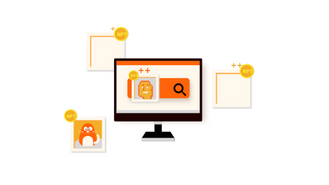
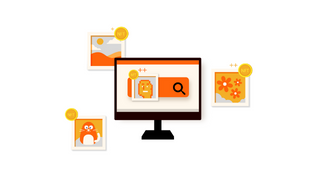
update 9

Changed region(s): [[0.2736, 0.1351, 0.7903, 0.6486], [0.1824, 0.5676, 0.6079, 0.8378], [0.4255, 0.7027, 0.5471, 0.7838]]

diff --git a/club.html b/club.html
@@ -111,7 +111,7 @@
 
                  <div class="col-lg-4 col-md-4 p-3">
                     <div id="clubCard">
-                        <img src="https://bluelearnprod.s3.ap-south-1.amazonaws.com/Clubs/entrepreneurship.jpg" alt="TheHouseOfHEartist- Sketching Club" srcset="">
+                        <img src="images/SKETCHING CLUB.png" alt="TheHouseOfHEartist- Sketching Club" srcset="">
                         <div class="content">
                           <h6>Sketching Club</h6>
                           <p>Consider sketching as a hobby or passion? Join us at the Sketching Club to appreciate the serenity of sketching and cherish the art within you.
@@ -190,7 +190,7 @@
 
                  <div class="col-lg-4 col-md-4 p-3">
                     <div id="clubCard">
-                        <img src="https://bluelearnprod.s3.ap-south-1.amazonaws.com/Clubs/entrepreneurship.jpg" alt="TheHouseOfHEartist- Traditional Art Club" srcset="">
+                        <img src="images/Traditional Club.png" alt="TheHouseOfHEartist- Traditional Art Club" srcset="">
                         <div class="content">
                           <h6>Traditional Art Club</h6>
                           <p>The art passed down through generations has now been waiting for you to master its authenticity , at the Traditional Art Club
@@ -222,7 +222,7 @@
 
                  <div class="col-lg-4 col-md-4 p-3">
                   <div id="clubCard">
-                      <img src="https://bluelearnprod.s3.ap-south-1.amazonaws.com/Clubs/entrepreneurship.jpg" alt="TheHouseOfHEartist- Har Painting Studio Club" srcset="">
+                      <img src="images/Har Painting Studio CLUB.png" alt="TheHouseOfHEartist- Har Painting Studio Club" srcset="">
                       <div class="content">
                         <h6>Har Painting Studio Club</h6>
                         <p>Learn the basics of building a startup, pitch your ideas to investors, brainstorm with like-minded

diff --git a/index.html b/index.html
@@ -152,7 +152,7 @@
       <div class="swiper-slide">
         <li class="swiper-slides " style="width: 257.4px; margin-right: 25px;">
           <div id="clubCard">
-            <img src="https://bluelearnprod.s3.ap-south-1.amazonaws.com/Clubs/entrepreneurship.jpg" alt="TheHouseOfHEartist- Sketching Club" srcset="">
+            <img src="images/SKETCHING CLUB.png" alt="TheHouseOfHEartist- Sketching Club" srcset="">
             <div class="content">
               <h6>Sketching Club</h6>
               <p>Consider sketching as a hobby or passion? Join us at the Sketching Club to appreciate the serenity of sketching and cherish the art within you.</p>
@@ -232,7 +232,7 @@
       <div class="swiper-slide">
         <li class="swiper-slides " style="width: 257.4px; margin-right: 25px;">
           <div id="clubCard">
-            <img src="https://bluelearnprod.s3.ap-south-1.amazonaws.com/Clubs/entrepreneurship.jpg" alt="TheHouseOfHEartist- Traditional Art Club" srcset="">
+            <img src="images/Traditional Club.png" alt="TheHouseOfHEartist- Traditional Art Club" srcset="">
             <div class="content">
               <h6>Traditional Art Club</h6>
               <p>The art passed down through generations has now been waiting for you to master its authenticity , at the Traditional Art Club</p>
@@ -265,7 +265,7 @@
       <div class="swiper-slide">
         <li class="swiper-slides " style="width: 257.4px; margin-right: 25px;">
           <div id="clubCard">
-            <img src="https://bluelearnprod.s3.ap-south-1.amazonaws.com/Clubs/entrepreneurship.jpg" alt="TheHouseOfHEartist- Har Painting Studio Club" srcset="">
+            <img src="images/Har Painting Studio CLUB.png" alt="TheHouseOfHEartist- Har Painting Studio Club" srcset="">
             <div class="content">
               <h6>Har Painting Studio Club</h6>
               <p>Learn the basics of building a startup, pitch your ideas to investors, brainstorm with like-minded

diff --git a/NFTArtClub.html b/NFTArtClub.html
@@ -73,7 +73,8 @@
                     NFT Art Club
                 </h1>
                 <p class="header2-text pt-3">
-                    Join niche clubs, interact with experts, explore, network with high-profile and ambitious individuals, get internships, and join India’s largest community all for free! What are you waiting for?
+                  An NFT (non-fungible token) is an asset that exists in the digital universe that is solely owned by you. Join the NFT Art Club to learn how you can own your art on digital platforms to avoid copyright infringements by others.
+
                 </p>
                 <div class="explore-btn pt-4">
                     <a href="#aboutnft">
@@ -88,7 +89,7 @@
               <div class="part2">
                   <div class="container p-5">
                 <div style="width: 100%; height: 100%;">
-                  <video class="headvideo" src="https://res.cloudinary.com/dait24tgm/video/upload/v1641911235/NFT_CLUB_igsthp.mp4" preload="auto" autoplay controls style="width: 100%; height: 100%;"></video>
+                  <video class="headvideo" src="https://res.cloudinary.com/dait24tgm/video/upload/v1642005059/NFT_CLUB_ol2mup.mp4" preload="auto" autoplay controls style="width: 100%; height: 100%;"></video>
                 </div>
               </div>
             </div>

diff --git a/TraditionalArtClub.html b/TraditionalArtClub.html
@@ -73,7 +73,8 @@
                     Traditional Art Club
                 </h1>
                 <p class="header2-text pt-3">
-                  The art passed down through generations has now been waiting for you to master its authenticity , at the Traditional Art Club
+                  It is important to retain the traditions of our ancestors. Traditional art provides a shared experience for the entire community. Join this club to explore and master the values and beliefs passed down through generations in the form of art.
+
 
                 </p>
                 <div class="explore-btn pt-4">
@@ -89,7 +90,7 @@
               <div class="part2">
                   <div class="container p-5">
                 <div style="width: 100%; height: 100%;">
-                  <video class="headvideo" src="images/community-intro.mp4" preload="auto" autoplay controls style="width: 100%; height: 100%;"></video>
+                  <video class="headvideo" src="https://res.cloudinary.com/dait24tgm/video/upload/v1642005055/Traditional_Club_pxuacd.mp4" preload="auto" autoplay controls style="width: 100%; height: 100%;"></video>
                 </div>
               </div>
             </div>

diff --git a/SketchingClub.html b/SketchingClub.html
@@ -72,7 +72,8 @@
                     Sketching Club
                 </h1>
                 <p class="header2-text pt-3">
-                  Consider sketching as a hobby or passion? Join us at the Sketching Club to appreciate the serenity of sketching and cherish the art within you.
+                  Sketching helps people develop their ability to focus and pay attention. Join our club to engage with like-minded people with whom you can interact and gain feedback from.
+
 
                 </p>
                 <div class="explore-btn pt-4">
@@ -88,7 +89,7 @@
               <div class="part2">
                   <div class="container p-5">
                 <div style="width: 100%; height: 100%;">
-                  <video class="headvideo" src="images/community-intro.mp4" preload="auto" autoplay controls style="width: 100%; height: 100%;"></video>
+                  <video class="headvideo" src="https://res.cloudinary.com/dait24tgm/video/upload/v1642005053/SKETCHING_CLUB_hnkrox.mp4" preload="auto" autoplay controls style="width: 100%; height: 100%;"></video>
                 </div>
               </div>
             </div>

diff --git a/HarPaintingStudio.html b/HarPaintingStudio.html
@@ -73,7 +73,7 @@
                     Har Painting Studio Club
                 </h1>
                 <p class="header2-text pt-3">
-                    Join niche clubs, interact with experts, explore, network with high-profile and ambitious individuals, get internships, and join India’s largest community all for free! What are you waiting for?
+                  Creativity does not always ensure a stable income. Join the Har Painting Studio Club to learn how to effectively monetize your artwork along with fellow artists.
                 </p>
                 <div class="explore-btn pt-4">
                     <a href="#aboutStudio">

diff --git a/DigtalArtClub.html b/DigtalArtClub.html
@@ -73,7 +73,8 @@
                     Digital Art Club
                 </h1>
                 <p class="header2-text pt-3">
-                  Digital art offers a whole new perspective to the way people see art. Come join us at the digital art club to experiment as well as to surpass your creativity.
+                  Technology is best when it brings people together. The advancements in digital technology allow artists to create a piece that can be seen and appreciated all around the world. Join our digital art club to learn how to explore this new form of art.
+
 
                 </p>
                 <div class="explore-btn pt-4">

diff --git a/ColoringClub.html b/ColoringClub.html
@@ -72,7 +72,8 @@
                     Coloring Club
                 </h1>
                 <p class="header2-text pt-3">
-                  Colours have been an inseparable part of human existence and enlivens the environment. We, here provide you with the opportunity to enjoy the divine aura of colours!
+                  Colors have been an inseparable part of human existence which enliven the environment. They also hold a certain significance for people around the world. Join the Coloring club to learn how to influence and portray emotions through colors.
+
 
                 </p>
                 <div class="explore-btn pt-4">

diff --git a/MandalaArtClub.html b/MandalaArtClub.html
@@ -73,7 +73,8 @@
                     Mandala Art Club
                 </h1>
                 <p class="header2-text pt-3">
-                  Mandala represents cosmos or deities of various cultures. Come join us at the Mandala Club to experience the heavenly world at your own fingertips!
+                  A mandala is said to be a symbolic picture of the universe. It helps transform ordinary minds into enlightened ones and to assist with healing. Join us at the Mandala Art Club to learn to draw a range of traditional patterns of different cultures.
+
 
                 </p>
                 <div class="explore-btn pt-4">

diff --git a/paintingclub.html b/paintingclub.html
@@ -72,7 +72,7 @@
                     Painting Club
                 </h1>
                 <p class="header2-text pt-3">
-                  Painting is a two dimensional language which lets the creators to express their ideas and emotions. Join us at the painting club to express yourself in this language!
+                  Painting is said to sharpen the mind through conceptual visualization and implementation as well as boost your memory skills. Be a part of a group that is engaging and learn to best express your emotions and thoughts.
 
                 </p>
                 <div class="explore-btn pt-4">

diff --git a/DoodleClub.html b/DoodleClub.html
@@ -73,7 +73,8 @@
                     Doodle Club
                 </h1>
                 <p class="header2-text pt-3">
-                  Doodling is a form of abstract art and here, at the Doodling Club you can dive in and surpass the creativity of your own subconscious!
+                  Doodling is a way to relieve stress and improve focus. It also helps portray the jumbled thoughts of people and make sense of them. Join our Doodling Club to start exploring your subconscious.
+
                 </p>
                 <div class="explore-btn pt-4">
                     <a href="#Doodle">
